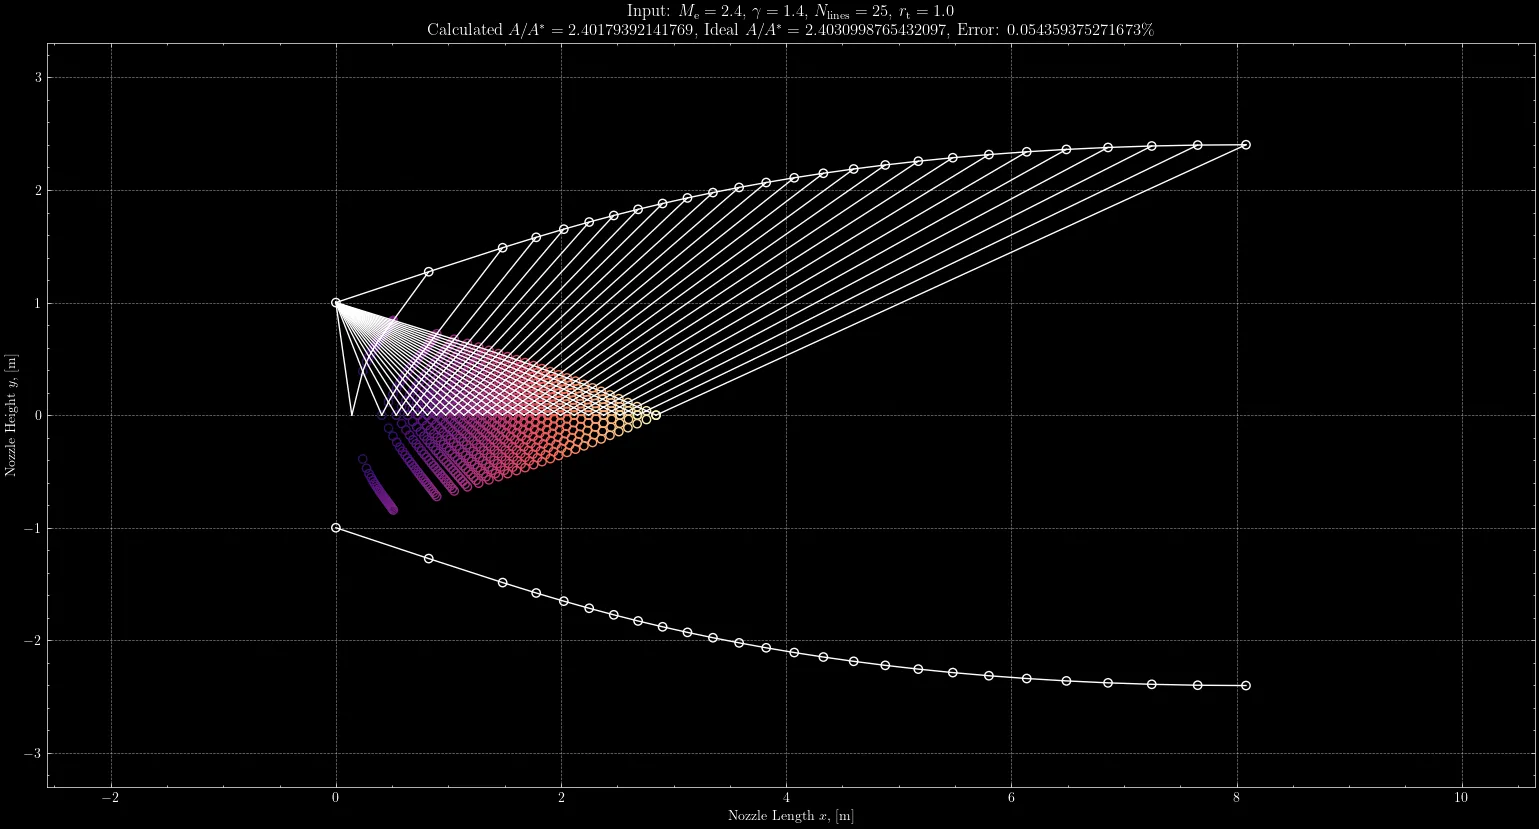
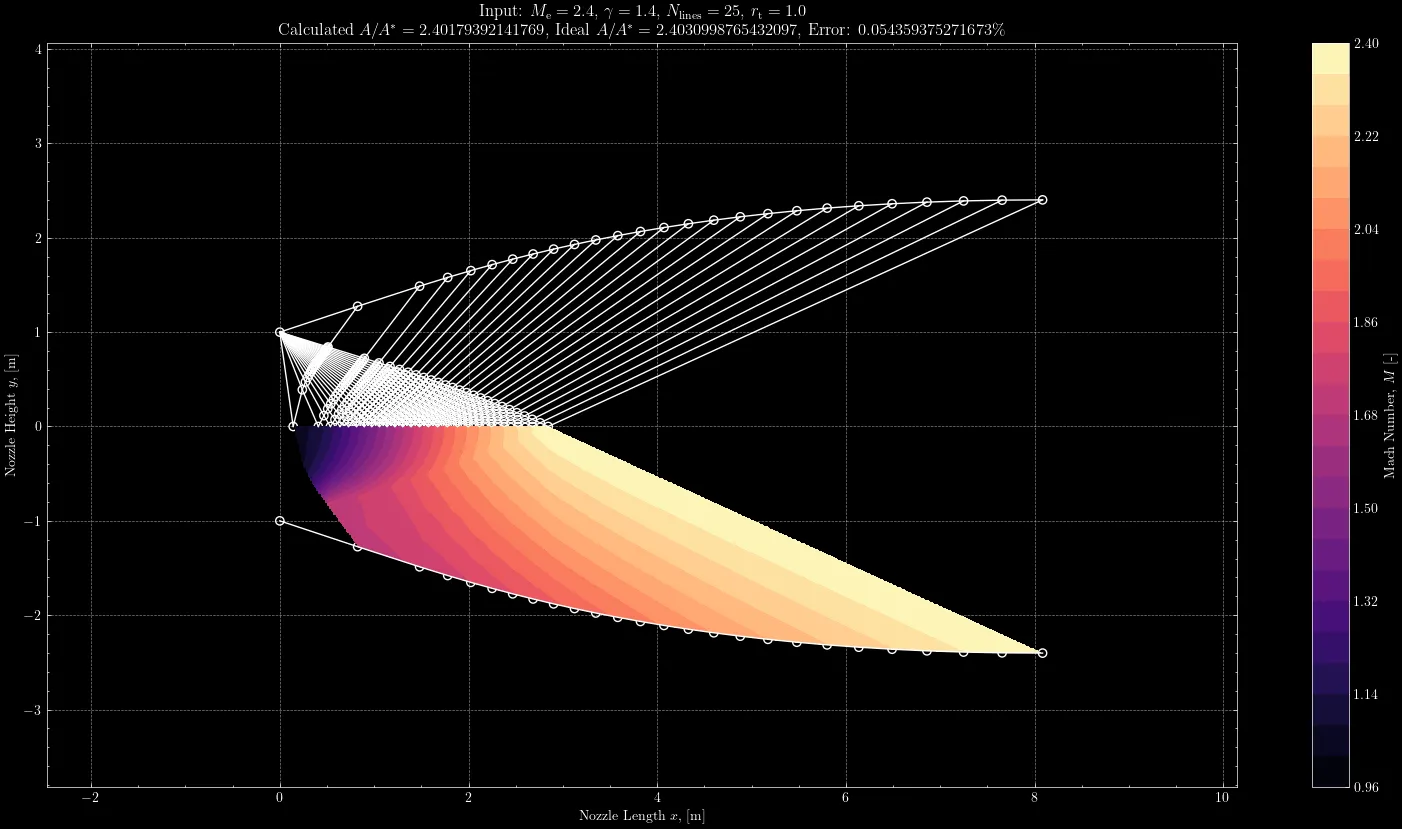
plot mach isolines

diff --git a/src/min_len_nozzle.py b/src/min_len_nozzle.py
@@ -22,6 +22,7 @@ Requirements:
 '''
 
 from dataclasses import dataclass, field
+from scipy.interpolate import griddata
 
 import matplotlib.pyplot as plt
 import scienceplots # pylint: disable=unused-import
@@ -518,11 +519,6 @@ def plotting(wall_data: tuple[list[float], list[float]],
         char_pts (list['CharPoint']): list of characteristic points
     '''
 
-    # Colors for internal points
-    cols = np.sqrt(np.array(char_data[0])**2 + np.array(char_data[1])**2)
-    norm = cols / cols.max()
-    cmap = plt.cm.magma(norm)
-
     # Use the scienceplots module and a dark theme
     plt.style.use(['science', 'grid', 'dark_background'])
 
@@ -535,8 +531,7 @@ def plotting(wall_data: tuple[list[float], list[float]],
     plt.scatter(wall_data[0], [-y for y in wall_data[1]], facecolors='none', edgecolors='w')
 
     # Interior and centerline points
-    plt.scatter(char_data[0], char_data[1], facecolors='none', edgecolors=cmap)
-    plt.scatter(char_data[0], [-y for y in char_data[1]], facecolors='none', edgecolors=cmap)
+    plt.scatter(char_data[0], char_data[1], facecolors='none', edgecolors='w')
 
     # Store the indices of the points that lie on the characteristics
     rght_chars = [find_rght_chars(num) for num in range(2, N_LINES + 1)]
@@ -561,6 +556,26 @@ def plotting(wall_data: tuple[list[float], list[float]],
     for i in range(N_LINES):
         plt.plot([0.0, char_pts[i].xy_loc[0]], [RAD_THROAT, char_pts[i].xy_loc[1]], 'w')
 
+    # Get x and y data from characteristic point locations
+    x_data = [c.xy_loc[0] for c in char_pts]
+    y_data = [c.xy_loc[1] for c in char_pts]
+
+    # Form the x, y data into ranges for use with meshgrid
+    x_range = np.linspace(min(x_data), max(x_data), len(x_data))
+    y_range = np.linspace(min(y_data), max(y_data), len(y_data))
+
+    # Form a 2-D mesh that works with contour plots
+    x_mesh, y_mesh = np.meshgrid(x_range, y_range)
+
+    # Mach number data needs to be interpolated into a 2-D grid. Originally, the data is just stored
+    # in a 1-D grid, where each Mach number is associated with a point in space. This interpolates
+    # the Mach number data into a 2-D domain that can be used with a contour plot
+    z_mesh = griddata((x_data, y_data), [c.mach_num for c in char_pts], (x_mesh, y_mesh))
+
+    # Mach number contours between characteristic lines (flip y coordinate to plot below the
+    # characteristic lines for clarity)
+    plt.contourf(x_mesh, -y_mesh, z_mesh, cmap='magma', levels=N_LINES)
+
     # Show final design information
     plt.axis('equal')
     plt.title(f'Input: $M_\\mathrm{{e}}={MACH_E}$, $\\gamma={GAMMA}$, \
@@ -569,6 +584,7 @@ def plotting(wall_data: tuple[list[float], list[float]],
                 Error: {percent_error}\\%')
     plt.xlabel('Nozzle Length $x$, [m]')
     plt.ylabel('Nozzle Height $y$, [m]')
+    plt.colorbar(label='Mach Number, $M$ [-]')
     plt.show()
 
 def data_output(x_data: list[float], y_data: list[float]):
